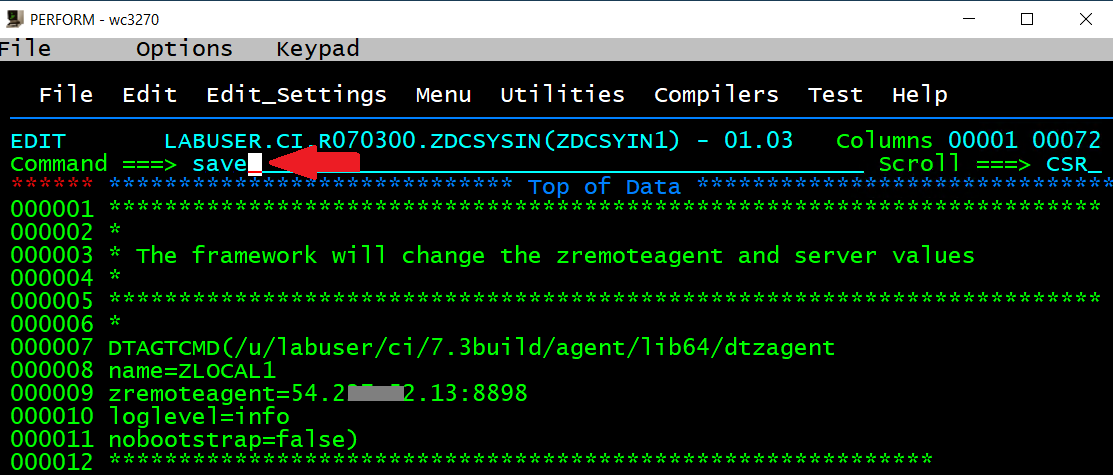
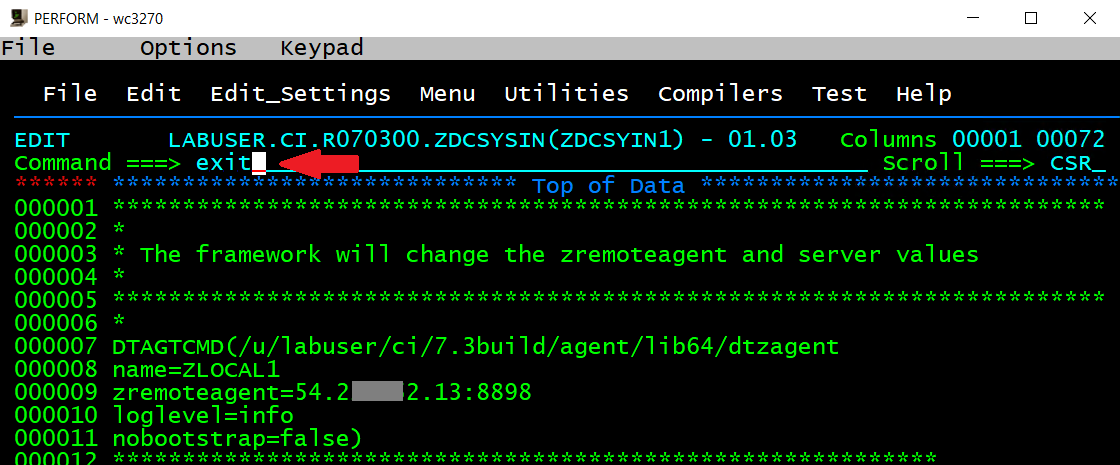
screenshots

diff --git a/modernizing-mainframe-monitoring/content/01_Deployment_and_Customization/index.md b/modernizing-mainframe-monitoring/content/01_Deployment_and_Customization/index.md
@@ -61,11 +61,13 @@ In this module you will learn how to deploy a Mainframe ActiveGate and zRemote a
   ![ZDCSYSIN](../../assets/images/ZDCSYSIN.png)
 
 - Keep all other parameters as they are 
-- Type `save` in the Command line
+- Type `exit` in the Command line or just press the `F3` function key (this will save the file and exit from the edit session)
 
   ![Save](../../assets/images/SaveZDCSYSIN.png)
  
 - Submit the zDC JCL in `<userid>.CI.R070300.JCL(ZDCJCL1)`
+
+  ![Save](../../assets/images/SaveZDCSYSIN.png)
 
 - Check in sdsf if the job `AFVDZnnn` is running
 - Browse the job spool to check if the zDC has connected properly to the zRemote
